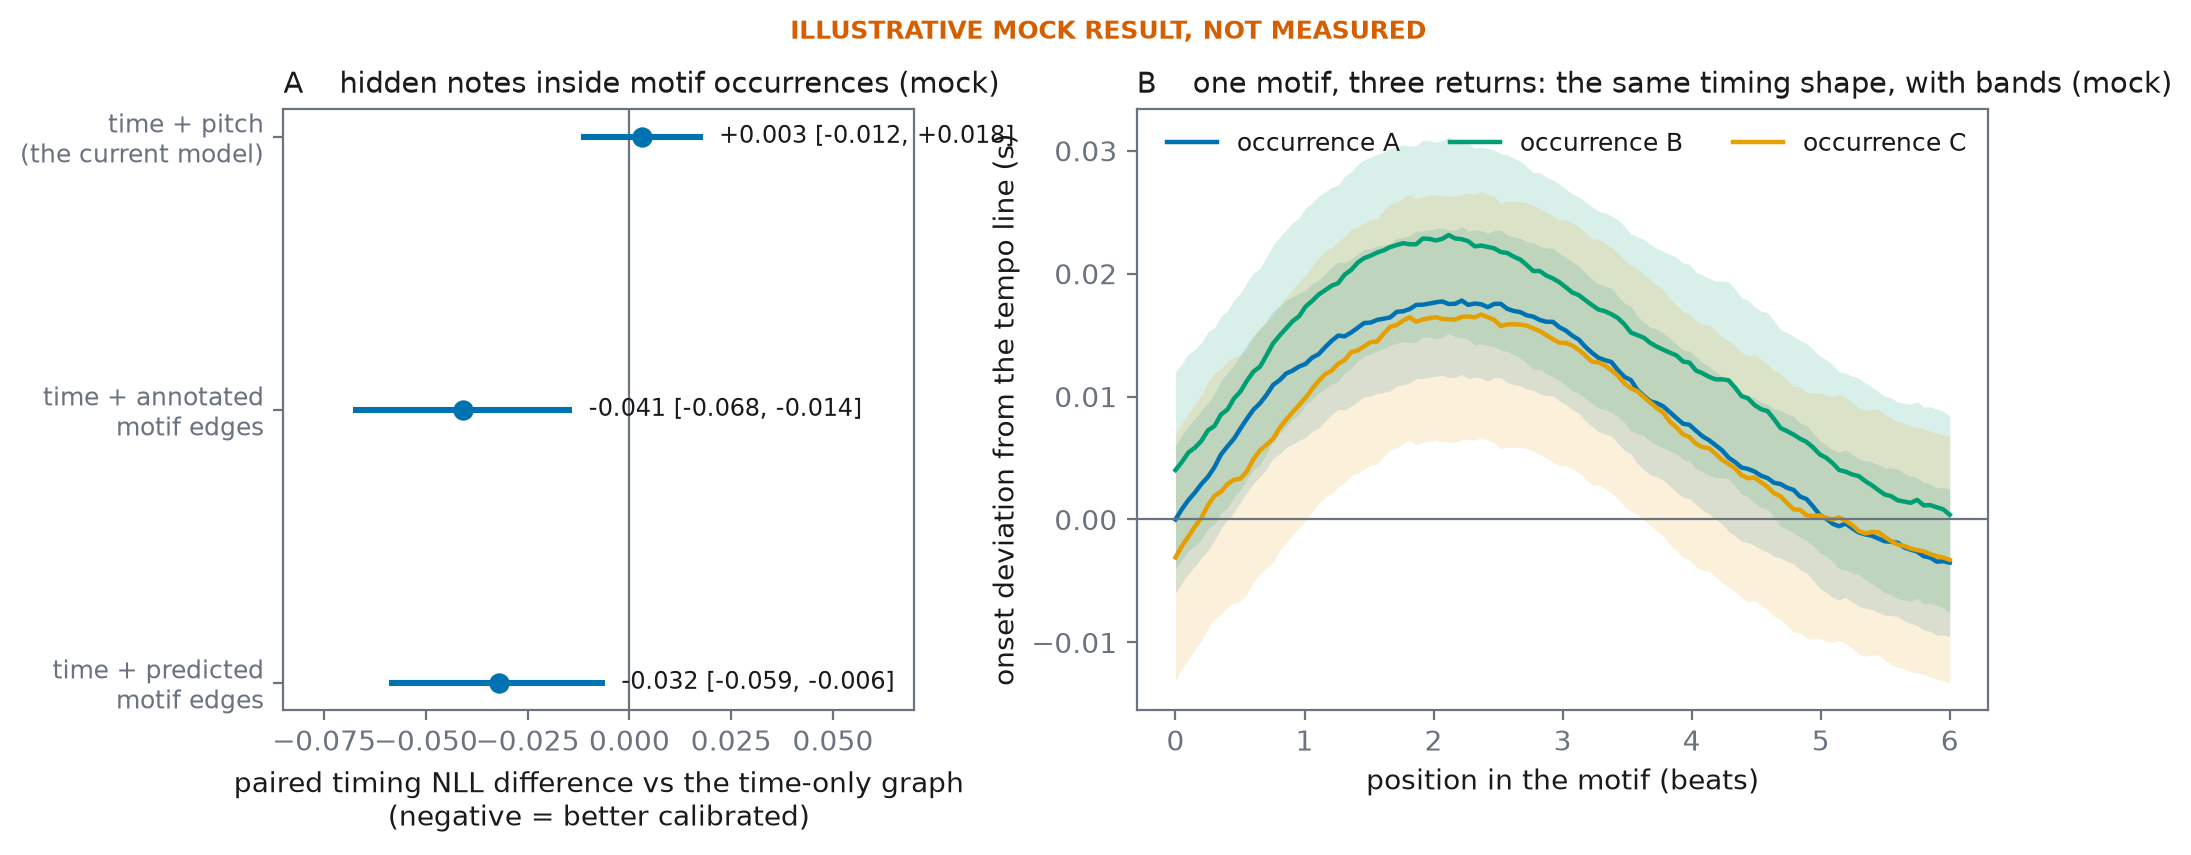
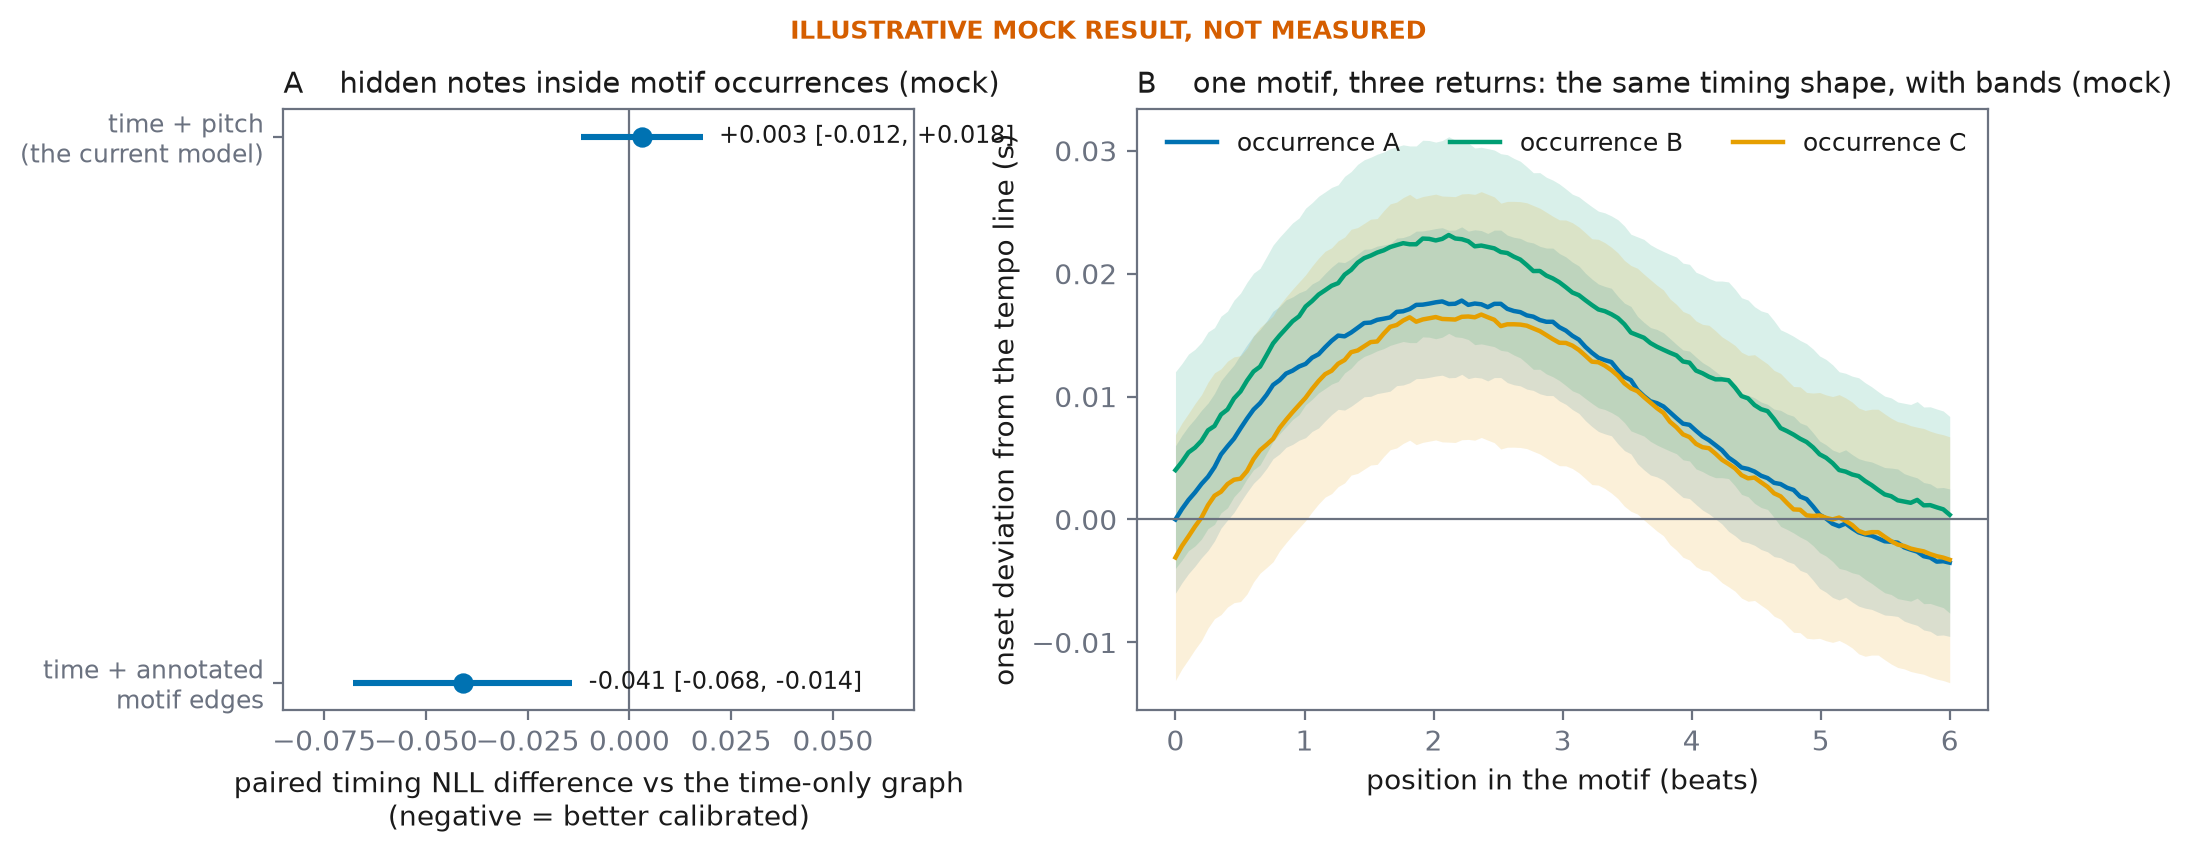
Proposal deck: annotated motifs first; motif edges by relative position inside the occurrence (many-to-many, no alignment, nothing learned); three arms, H1/H1b; the ISMIR model moved to stage two; mock figure with two arms; notes

diff --git a/docs/slides/proposal_endgoal.tex b/docs/slides/proposal_endgoal.tex
@@ -29,7 +29,7 @@
 \newcommand{\diag}{\operatorname{diag}}
 
 \title{\textbf{A proposal for the end goal}}
-\subtitle{Expression follows what the score repeats, with one deferred alternative}
+\subtitle{Expression follows what the score repeats: annotated motifs first}
 \author{Raynaldi Lalang}
 \institute{Kyoto University}
 \date{28 October 2026}
@@ -121,15 +121,135 @@
   \vspace{1mm}
 
   \small The current graph connects score neighbours (grey). The motif
-  edge family (blue) connects each note of a motif occurrence to the same
-  position in the other occurrences, from the BPS-motif annotations or
-  from the ISMIR 2026 model's predictions. A hidden note then has two
-  kinds of neighbour: the notes around it in time, and the notes that
-  \emph{are} it, elsewhere in the piece.
+  edge family (blue) connects each note of a motif occurrence to the
+  notes at the same relative position in the other occurrences, taken
+  first from the BPS-motif annotations. A hidden note then has two kinds
+  of neighbour: the notes around it in time, and the notes that
+  \emph{are} it, elsewhere in the piece. The drawing shows equal-length
+  occurrences; the edge definition does not require them.
 \end{frame}
 
 % ---------------------------------------------------------------------
-\begin{frame}{The motif side: what the ISMIR 2026 model produces}
+\begin{frame}{The bridge: from annotated occurrences to an edge family}
+  \footnotesize
+  \textbf{What the annotations give.} Occurrences $O_1, \dots, O_K$ as
+  note sets with a span $[b_k^{\text{start}}, b_k^{\text{end}}]$ in beats
+  and a type $q(k)$. Returns of one motif differ in length, so a
+  note-to-note correspondence is not well defined in general.
+  \vspace{1mm}
+
+  \textbf{Correspondence by relative position, many to many.} Each note
+  sits at its relative position inside its occurrence,
+  \[
+    u_i = \frac{b_i - b_k^{\text{start}}}{\,b_k^{\text{end}} - b_k^{\text{start}}\,} \in [0, 1],
+    \qquad i \in O_k,
+  \]
+  and connect notes of two same-type occurrences by closeness in that
+  coordinate, with the Gaussian form the time edges already use,
+  \[
+    \bigl(W_{\text{motif}}\bigr)_{ij} \;=\;
+    \sum_{k \neq l,\; q(k) = q(l)} \mathbf 1[i \in O_k]\, \mathbf 1[j \in O_l]\;
+    \exp\!\Bigl(-\frac{(u_i - u_j)^2}{2\,\ell_u^2}\Bigr),
+  \]
+  with $\ell_u$ fixed at about a tenth of the span. Equal-length returns
+  recover one-to-one edges; unequal ones get a soft many-to-many block
+  that needs no alignment. Nothing is learned here.
+  \vspace{1mm}
+
+  \textbf{The score graph.} The thesis's adjacency gains the family with
+  one learned weight,
+  \[
+    W \;=\; W_{\text{time}} + w_{\text{m}}\, W_{\text{motif}}, \qquad
+    \Lg = D - W, \qquad
+    K_{\mathcal G}(s) = U\,\diag\bigl(g(\nu; s)\bigr)\,U^{\top},
+  \]
+  and the rest of the model, $K = B \otimes K_{\mathcal G}(s) + \sum_f \diag(c_f) \otimes X_f X_f^{\top} + \diag(\varsigma^2) \otimes I$,
+  is unchanged. $w_{\text{m}}$ joins $\theta$ in the per-piece evidence,
+  which can switch the family off: the falsification route.
+\end{frame}
+
+% ---------------------------------------------------------------------
+\begin{frame}{The GP side: what a motif edge does to a hidden note}
+  \footnotesize
+  In the nested single-channel case with the additive kernel,
+  $g(\nu; s) = 1/(1 + s\nu)$, the prior is the Gaussian Markov random
+  field with precision $Q = I + s\Lg$, and the conditional of a hidden
+  note $h$ given the other notes is explicit:
+  \[
+    \mathbb E\bigl[y_h \mid y_{-h}\bigr] \;=\; \frac{s \sum_{j} W_{hj}\, y_j}{1 + s\, d_h},
+    \qquad
+    \operatorname{Var}\bigl[y_h \mid y_{-h}\bigr] \;=\; \frac{1}{1 + s\, d_h},
+    \qquad d_h = \sum_j W_{hj}.
+  \]
+  Splitting the degree into the two families, $d_h = d_h^{\text{time}} + w_{\text{m}} d_h^{\text{motif}}$,
+  \[
+    \mathbb E\bigl[y_h \mid y_{-h}\bigr] \;=\;
+    \frac{s\, d_h^{\text{time}}}{1 + s d_h}\;\overline{y}^{\,\text{time}}_h
+    \;+\; \frac{s\, w_{\text{m}}\, d_h^{\text{motif}}}{1 + s d_h}\;\overline{y}^{\,\text{motif}}_h,
+  \]
+  the degree-weighted mean of the temporal neighbours and the
+  relative-position-weighted mean of the other occurrences' notes. The posterior of the
+  full model, $m = C_{\cdot o} K_{oo}^{-1} \tilde y_o$, mixes the same two
+  sources through the coupling $B$, the feature kernels and the noise, but
+  this is the mechanism.
+  \vspace{1mm}
+
+  \textbf{Two readable predictions.} If performers shape a motif the same
+  way at each return, $\overline{y}^{\,\text{motif}}_h$ is closer to the
+  truth than $\overline{y}^{\,\text{time}}_h$ and the evidence raises
+  $w_{\text{m}}$: the recovery error on hidden motif notes falls (H1,
+  RMSE) and the band tightens by exactly the extra degree, which is the
+  calibration test (H1, NLL and coverage). If they do not, the counterpart
+  mean is noise, the evidence drives $w_{\text{m}}$ toward zero, and the
+  arms coincide with the time-only graph: the falsification outcome.
+\end{frame}
+
+% ---------------------------------------------------------------------
+\begin{frame}{Methodology: arms, masking, data, hypotheses}
+  \small
+  \textbf{Arms}, paired per piece and seed, the per-piece bias column in
+  every arm: time-only graph (the attribution winner), time $+$ pitch
+  (the current model), time $+$ annotated motif edges. Predicted edges
+  are a second stage, not part of this study.
+  \vspace{1mm}
+
+  \textbf{Masking.} Hide notes inside motif occurrences while at least
+  one other occurrence of the same type stays fully observed, at the
+  usual 40 percent rate on the remaining notes. Score timing, articulation and velocity by
+  paired RMSE and NLL, and coverage of the 90 percent band, on the hidden
+  motif notes and on all hidden notes.
+  \vspace{1mm}
+
+  \textbf{Data.} BPS-motif annotates the first movements of all 32
+  Beethoven sonatas. ASAP holds 25 of them, over 200 performances, nine
+  pieces already inside the thesis's pools. The 400-note excerpts are the
+  expositions, where the motif returns.
+  \vspace{1mm}
+
+  \textbf{Hypotheses, fixed before the first run.} H1: on hidden motif
+  notes, the annotated-motif arm improves timing and velocity NLL against
+  the time-only graph, with an interval excluding zero. H1b: it also
+  improves RMSE there. Report-only: the learned $w_{\text{m}}$ per piece
+  and the effect on non-motif notes. Falsification: an H1 interval that
+  includes zero means the structure performance follows is temporal
+  smoothing, and the thesis says so.
+\end{frame}
+
+% ---------------------------------------------------------------------
+\begin{frame}{What the result would look like (mock, not measured)}
+  \includegraphics[width=0.95\textwidth]{proposal_mock_results.png}
+  \vspace{1mm}
+
+  \small Panel A is the study's one decisive figure: the annotated-motif
+  arm against the time-only graph on hidden motif notes, with the current
+  pitch term shown for scale. Panel B is the application view the same
+  posterior gives for free: how one motif was shaped at each of its
+  returns, with uncertainty. Both panels are drawn from hand-set numbers
+  to show the form of the answer, not its value.
+\end{frame}
+
+% ---------------------------------------------------------------------
+\begin{frame}{Stage two, later: occurrences predicted by the ISMIR 2026 model}
   \footnotesize
   \textbf{Typed note graph and note states.} Notes are vertices, with edge
   types for simultaneity, temporal proximity and overlap. A pretrained
@@ -164,126 +284,9 @@
   $q(k)$.
   \vspace{1mm}
 
-  \textbf{What the thesis takes from it:} the occurrences $\hat O_k$, their
-  types $q(k)$, and per note the probability $m_i$. On BPS-motif these
-  reach establishment F1 $0.732$ with $105$ occurrences per piece against
-  $154.5$ annotated.
-\end{frame}
-
-% ---------------------------------------------------------------------
-\begin{frame}{The bridge: from occurrences to an edge family}
-  \footnotesize
-  \textbf{Correspondence within a motif type.} For two occurrences $O_k$,
-  $O_l$ with $q(k) = q(l)$, let $\pi_{kl} : O_k \to O_l$ map each note to
-  its counterpart: by onset order when $|O_k| = |O_l|$, and otherwise by
-  dynamic time warping on (relative onset, pitch interval) so that
-  transposed and slightly varied returns still align.
-  \vspace{1mm}
-
-  \textbf{The motif adjacency.}
-  \[
-    \bigl(W_{\text{motif}}\bigr)_{ij} \;=\;
-    \sum_{k < l,\; q(k) = q(l)} c_{kl}\; \mathbf 1\bigl[\, j = \pi_{kl}(i) \text{ or } i = \pi_{lk}(j) \,\bigr],
-  \]
-  \[
-    c_{kl} = \begin{cases} 1 & \text{annotated occurrences,}\\[1pt]
-      \sqrt{\bar m_k\, \bar m_l}, \quad \bar m_k = \tfrac{1}{|\hat O_k|}\sum_{i \in \hat O_k} m_i & \text{predicted occurrences,} \end{cases}
-  \]
-  so a note in a motif that returns four times gains three counterparts,
-  and predicted occurrences enter with the model's own confidence.
-  \vspace{1mm}
-
-  \textbf{The score graph.} The thesis's adjacency (Chapter 3,
-  eq:adjacency) gains the family with one learned weight,
-  \[
-    W \;=\; W_{\text{time}} + w_{\text{m}}\, W_{\text{motif}}, \qquad
-    \Lg = D - W, \qquad
-    K_{\mathcal G}(s) = U\,\diag\bigl(g(\nu; s)\bigr)\,U^{\top},
-  \]
-  and everything after that is unchanged: $K = B \otimes K_{\mathcal G}(s)
-  + \sum_f \diag(c_f) \otimes X_f X_f^{\top} + \diag(\varsigma^2) \otimes I$,
-  with $w_{\text{m}}$ added to $\theta$ in the per-piece evidence
-  $\log \N(\tilde y_o;\, 0,\, K_{oo}(\theta))$. The evidence can switch the
-  family off, $w_{\text{m}} \to 0$, which is the falsification route.
-\end{frame}
-
-% ---------------------------------------------------------------------
-\begin{frame}{The GP side: what a motif edge does to a hidden note}
-  \footnotesize
-  In the nested single-channel case with the additive kernel,
-  $g(\nu; s) = 1/(1 + s\nu)$, the prior is the Gaussian Markov random
-  field with precision $Q = I + s\Lg$, and the conditional of a hidden
-  note $h$ given the other notes is explicit:
-  \[
-    \mathbb E\bigl[y_h \mid y_{-h}\bigr] \;=\; \frac{s \sum_{j} W_{hj}\, y_j}{1 + s\, d_h},
-    \qquad
-    \operatorname{Var}\bigl[y_h \mid y_{-h}\bigr] \;=\; \frac{1}{1 + s\, d_h},
-    \qquad d_h = \sum_j W_{hj}.
-  \]
-  Splitting the degree into the two families, $d_h = d_h^{\text{time}} + w_{\text{m}} d_h^{\text{motif}}$,
-  \[
-    \mathbb E\bigl[y_h \mid y_{-h}\bigr] \;=\;
-    \frac{s\, d_h^{\text{time}}}{1 + s d_h}\;\overline{y}^{\,\text{time}}_h
-    \;+\; \frac{s\, w_{\text{m}}\, d_h^{\text{motif}}}{1 + s d_h}\;\overline{y}^{\,\text{motif}}_h,
-  \]
-  the degree-weighted mean of the temporal neighbours and the mean of the
-  note's counterparts in the other occurrences. The posterior of the
-  full model, $m = C_{\cdot o} K_{oo}^{-1} \tilde y_o$, mixes the same two
-  sources through the coupling $B$, the feature kernels and the noise, but
-  this is the mechanism.
-  \vspace{1mm}
-
-  \textbf{Two readable predictions.} If performers shape a motif the same
-  way at each return, $\overline{y}^{\,\text{motif}}_h$ is closer to the
-  truth than $\overline{y}^{\,\text{time}}_h$ and the evidence raises
-  $w_{\text{m}}$: the recovery error on hidden motif notes falls (H1,
-  RMSE) and the band tightens by exactly the extra degree, which is the
-  calibration test (H1, NLL and coverage). If they do not, the counterpart
-  mean is noise, the evidence drives $w_{\text{m}}$ toward zero, and the
-  arms coincide with the time-only graph: the falsification outcome.
-\end{frame}
-
-% ---------------------------------------------------------------------
-\begin{frame}{Methodology: arms, masking, data, hypotheses}
-  \small
-  \textbf{Arms}, paired per piece and seed, the per-piece bias column in
-  every arm: time-only graph (the attribution winner), time $+$ pitch
-  (the current model), time $+$ annotated motif edges, time $+$ predicted
-  motif edges.
-  \vspace{1mm}
-
-  \textbf{Masking.} Hide notes inside motif occurrences whose counterpart
-  in at least one other occurrence is observed, at the usual 40 percent
-  rate on the remaining notes. Score timing, articulation and velocity by
-  paired RMSE and NLL, and coverage of the 90 percent band, on the hidden
-  motif notes and on all hidden notes.
-  \vspace{1mm}
-
-  \textbf{Data.} BPS-motif annotates the first movements of all 32
-  Beethoven sonatas. ASAP holds 25 of them, over 200 performances, nine
-  pieces already inside the thesis's pools. The 400-note excerpts are the
-  expositions, where the motif returns.
-  \vspace{1mm}
-
-  \textbf{Hypotheses, fixed before the first run.} H1: on hidden motif
-  notes, the annotated-motif arm improves timing and velocity NLL against
-  the time-only graph, with an interval excluding zero. H2: the
-  predicted-motif arm retains at least half of that gain. Falsification:
-  an H1 interval that includes zero means the structure performance
-  follows is temporal smoothing, and the thesis says so.
-\end{frame}
-
-% ---------------------------------------------------------------------
-\begin{frame}{What the result would look like (mock, not measured)}
-  \includegraphics[width=0.95\textwidth]{proposal_mock_results.png}
-  \vspace{1mm}
-
-  \small Panel A is the study's one decisive figure: the motif arms
-  against the time-only graph on hidden motif notes, with the current
-  pitch term shown for scale. Panel B is the application view the same
-  posterior gives for free: how one motif was shaped at each of its
-  returns, with uncertainty. Both panels are drawn from hand-set numbers
-  to show the form of the answer, not its value.
+  \textbf{What stage two takes:} the occurrences $\hat O_k$ with spans
+  and types $q(k)$ in place of the annotations, on any score
+  (establishment F1 $0.732$ on BPS-motif). It waits for stage one's answer.
 \end{frame}
 
 % ---------------------------------------------------------------------
@@ -293,10 +296,10 @@
     \begin{column}{0.5\textwidth}
       \textbf{Five working days}
       \begin{enumerate}
-        \item motif edge builder, and ASAP score MIDI aligned to the
-          BPS-motif note lists;
+        \item motif edge builder from the annotations (relative position),
+          and ASAP score MIDI aligned to the BPS-motif note lists;
         \item hypotheses and masking rule committed before any run;
-        \item development runs, four arms, Beethoven pieces, sharded;
+        \item development runs, three arms, Beethoven pieces, sharded;
         \item write-up: a section in the piano chapter, a slide in the deck;
         \item if H1 holds: one pre-specified evaluation on untouched
           Beethoven performances, before the January talk.
@@ -312,9 +315,9 @@
           against the most musically plausible alternative.
       \end{itemize}
       \vspace{2mm}
-      \textbf{Recommendation.} Run the motif study. State the
-      across-performer model as the Future Work item that turns the
-      representation into a feedback application.
+      \textbf{Recommendation.} Run the motif study on the annotations.
+      Predicted occurrences are stage two; the across-performer model is
+      the Future Work item for the application.
       \vspace{2mm}
 
       \textcolor{muted}{\small The writing freeze of 23 October is reopened

diff --git a/scripts/make_proposal_figs.py b/scripts/make_proposal_figs.py
@@ -105,11 +105,10 @@ def mock_results():
     fig, (axa, axb) = plt.subplots(1, 2, figsize=(11, 3.9),
                                    gridspec_kw={"width_ratios": [1.0, 1.35], "wspace": 0.3})
     banner(fig)
-    arms = ["time + pitch\n(the current model)", "time + annotated\nmotif edges",
-            "time + predicted\nmotif edges"]
-    est = np.array([0.003, -0.041, -0.032])
-    lo = np.array([-0.012, -0.068, -0.059])
-    hi = np.array([0.018, -0.014, -0.006])
+    arms = ["time + pitch\n(the current model)", "time + annotated\nmotif edges"]
+    est = np.array([0.003, -0.041])
+    lo = np.array([-0.012, -0.068])
+    hi = np.array([0.018, -0.014])
     y = np.arange(len(arms))[::-1]
     axa.axvline(0, color=MUTED, lw=0.8)
     axa.hlines(y, lo, hi, color=BLUE, lw=2.2)

diff --git a/docs/slides/proposal_endgoal_notes.md b/docs/slides/proposal_endgoal_notes.md
@@ -1,6 +1,6 @@
-# Speaker notes: proposal_endgoal.pdf (11 frames, 2026-10-28, revised)
+# Speaker notes: proposal_endgoal.pdf (11 frames, 2026-10-28, revised twice)
 
-A separate deck, not part of deck.tex. Frame 10 shows MOCK numbers,
+A separate deck, not part of deck.tex. Frame 9 shows MOCK numbers,
 generated by `scripts/make_proposal_figs.py` from hand-set values; the
 figure carries the banner "illustrative mock result, not measured" and
 the frame says so again. Nothing on these frames comes from an
@@ -30,39 +30,39 @@ connected to the same position in every other occurrence of its motif.
 The hidden note has its counterparts observed, which is the condition
 the three spans never had.
 
-## 6. The motif side
-Walk the ISMIR model top to bottom: typed graph and R-GCN states, the
-two heads (motif-note probability, pair affinity), label propagation with
-restart during training, thresholded gated affinity and connected
-components at test time, GMM grouping into types. What the thesis takes:
-occurrences, their types, and the per-note probability. Quote the
-BPS-motif numbers from the paper.
+## 6. The bridge
+Occurrences of one type differ in length, so there is no clean
+note-to-note map. Use relative position inside the occurrence instead:
+a Gaussian in that coordinate, many to many, no alignment, nothing
+learned. Then one learned weight, the Laplacian, the spectral kernel,
+and the rest of the model unchanged. The evidence can switch the family
+off.
 
-## 7. The bridge
-Correspondence by onset order for equal-length occurrences, DTW
-otherwise. The motif adjacency sums over same-type occurrence pairs,
-weighted by 1 for annotations and by the geometric mean of the
-occurrence confidences for predictions. Then one learned weight, the
-Laplacian, the spectral kernel, and the rest of the model unchanged. The
-evidence can switch the family off.
-
-## 8. The GP side
+## 7. The GP side
 The additive kernel is a GMRF with precision I + sL. The conditional
 mean of a hidden note is the degree-weighted mean of its neighbours,
-which splits into a temporal part and a counterpart part; the variance
-is one over one plus s times the degree. So motif edges change both the
-centre and the width of the hidden note's band, which is why H1 is a
+which splits into a temporal part and a motif part; the variance is one
+over one plus s times the degree. So motif edges change both the centre
+and the width of the hidden note's band, which is why H1 is a
 calibration hypothesis as well as a recovery one.
 
-## 9. Methodology
-Four arms, paired. Masking targets motif notes with an observed
-counterpart. Data: 25 of the 32 annotated first movements are in ASAP.
-H1 and H2 and the falsification rule are written before the first run.
+## 8. Methodology
+Three arms, paired, annotations only. Masking targets motif notes while
+another occurrence of the type stays observed. Data: 25 of the 32
+annotated first movements are in ASAP. H1, H1b and the falsification
+rule are written before the first run.
 
-## 10. Mock results
+## 9. Mock results
 Panel A is the decisive figure of the study; the pitch arm is there for
 scale. Panel B is the application view, free from the same posterior.
 Say "mock" out loud.
+
+## 10. Stage two, later: the ISMIR model
+Only if stage one gives an answer worth extending. Walk the model top to
+bottom: typed graph and R-GCN states, the two heads, label propagation
+with restart in training, thresholded gated affinity and connected
+components at test time, GMM grouping into types. Its occurrences, spans
+and types would replace the annotations on any score.
 
 ## 11. Plan and recommendation
 Five working days, then one pre-specified evaluation if the development
